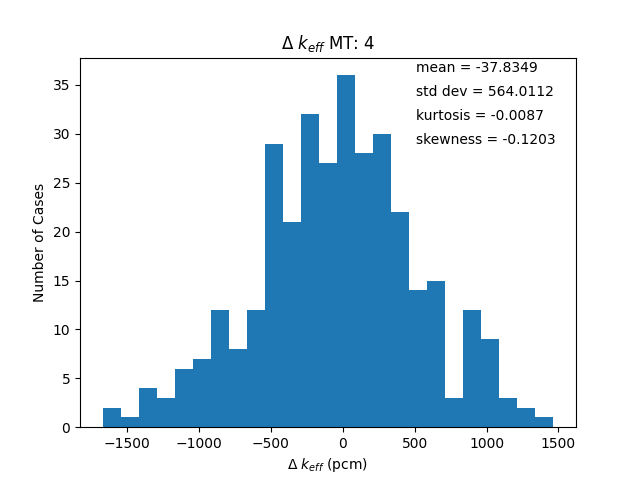
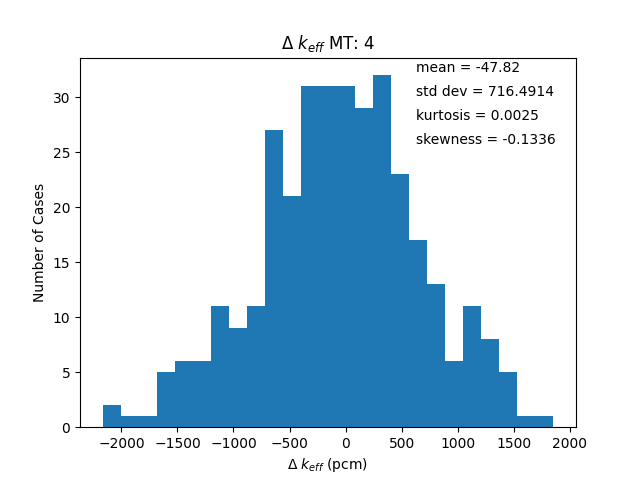
fixat godfiles

diff --git a/main.py b/main.py
@@ -60,11 +60,11 @@ def choose_csv(reaction_ind, directory):
         sens_vector_energy = data[:, 0]
         sens_vector_values = data[:, 1]
     elif int(choice) == 2:
-        reaction_dict = total_reactions_txt(directory)
-        sens_vector_energy, sens_vector_values = reaction_dict[str(reaction_ind)]
+        reaction_dict = total_reactions_txt(directory, reaction_ind)
+        sens_vector_energy, sens_vector_values = reaction_dict[reaction_ind]
     return sens_vector_energy, sens_vector_values
 
-def total_reactions_txt(directory):
+def total_reactions_txt(directory, reaction_ind):
     """
     Creates a dictionary of sensitivity vectors by fetching data from a Dice texftile. The textfile is read with the help
     of a list of reactions.
@@ -73,7 +73,6 @@ def total_reactions_txt(directory):
     Returns:
         sensitivity_dict: A dictionary containing sensitivity vectors with a corresponding energy vectors for each reaction.
     """
-    name_dict = {'2':'elastic', '4':'inelastic', '16':'n,2n', '18':'fission','452':'chi','456':'prompt,chi', '102':'n,gamma'}
     energy_vector = []
     print("\nPlease choose a suitable Dice text file of sensitivity vectors:")
     root = Tk()
@@ -104,26 +103,34 @@ def total_reactions_txt(directory):
         first_word = first_line.split('.')[0]
 
     sensitivity_dict = {}
-    for reaction_ind, reaction_name  in name_dict.items():
-        sens_vec = []
-        with open(text_file_path) as f:
-            header_found = False
-            for line in f:
-                if first_word in line and reaction_name in line:
-                    next_line = next(f, None)
-                    if next_line.split()[0]=='0':
-                        header_found = True
-                        for i in range(2):
-                            f.readline()
-                    continue
-                else:
-                    if header_found == True and line.startswith(' '):
-                        data = [sens_vec.append(float(x)) for x in line.split()]
-                    else:   
-                        header_found = False
-        sens_vec = np.array(sens_vec)
-        sens_vec = sens_vec[:len(energy_vector)]
-        sensitivity_dict[reaction_ind] =( [energy_vector[::-1],sens_vec[::-1]] )
+
+    sens_vec = []
+    with open(text_file_path) as f:
+        header_found = False
+        correct_header = False
+        skip = True
+        for line in f:
+            if first_word in line and str(reaction_ind) in line.split():
+                header_found = True
+                correct_header = False
+                continue
+            elif header_found == True:
+                if line.split()[0] == '0':
+                    correct_header = True
+                header_found = False
+            elif correct_header == True and line.startswith(' '):
+                if skip==True:
+                    f.readline()
+                    skip=False
+                    continue 
+                data = [sens_vec.append(float(x)) for x in line.split()]
+            else:   
+                header_found = False
+    sens_vec = np.array(sens_vec)
+    sens_vec = sens_vec[:len(energy_vector)-1]
+    sens_vec = np.append(sens_vec, 0.0)
+    print(sens_vec)
+    sensitivity_dict[reaction_ind] =( [energy_vector[::-1],sens_vec[::-1]] )
     return sensitivity_dict
 
 def total_reactions_csv(directory):
@@ -227,7 +234,7 @@ def add_reactions(directory):
                 total_dictionary = total_reactions_csv(directory)
                 reaction_dict[reaction_ind] = total_dictionary 
             elif total_meth == "2":
-                total_dictionary = total_reactions_txt(directory) 
+                total_dictionary = total_reactions_txt(directory, reaction_ind) 
                 reaction_dict[reaction_ind] = total_dictionary
         else:
             sens_vector_energy, sens_vector_values = choose_csv(reaction_ind, directory)

diff --git a/miscellaneous/plot_xs_acefiles.py b/miscellaneous/plot_xs_acefiles.py
@@ -16,7 +16,7 @@ from scipy.stats import norm, kurtosis
 
 
 
-directory = '/home/axelwohlin/Desktop/kand/ACE_files/Pu239.nuss.05.10.2016'
+directory = 'ACE_files/Pu239.nuss.05.10.2016'
 
 def cross_section(reaction_ind, ace_file, directory):
     """Picks out the cross sections from the ACE-files. 
@@ -85,7 +85,7 @@ def ace_reader(ace_file, directory):
 #name_dict = {"fission":(18), "elastic":(2),"inelastic":(4), "n,gamma":(102)}
 #name_dict = {"total":(1), "promt,nubar":(456), "nubar":(452)}
 #name_dict = {"fission":(18), "elastic":(2) ,"inelastic":(4)}
-name_dict= {"n,3n":(17),"nubar":(456),"n,gamma":(102)}
+name_dict= {"nubar":(456)}
 name_list = []
 for i in name_dict.keys():
     name_list.append(i)
@@ -123,7 +123,7 @@ for dict_key in plot_dict.keys():
     axs.set_title(f'Cross section of {name_list[dict_key]}')
     axs.set_xlabel("Energy(MeV)")
     axs.set_ylabel("Cross section(Barn)")
-    plt.savefig(f"/home/axelwohlin/Desktop/kand/results/plutonium_xs_plots/figure_{name_list[dict_key]}.png")
+    plt.savefig(f"results/plutonium_xs_plots/figure_{name_list[dict_key]}.png")
     plt.clf
 
 if os.path.exists('new_file.ace'):  

diff --git a/miscellaneous/ace_file_reaction.py b/miscellaneous/ace_file_reaction.py
@@ -16,13 +16,8 @@ from scipy.stats import norm, kurtosis
 
 
 
-<<<<<<< HEAD
-ace_file = '/home/axelwohlin/Desktop/kand/ACE_files/Pu239.nuss.05.10.2016/Pu239-n.ace_0000'#'U235.nuss.10.10.2016/U235-n.ace_0000'
-directory = '/home/axelwohlin/Desktop/kand/ACE_files/Pu239.nuss.05.10.2016'#'U235.nuss.10.10.2016'
-=======
 ace_file = 'ACE_files/Pu239.nuss.05.10.2016/Pu239-n.ace_0000'
 directory = 'ACE_files/Pu239.nuss.05.10.2016'
->>>>>>> f66184d (nya plots)
 
 with open(ace_file, 'rb') as infile:
     ace_file_contents = infile.read()
@@ -40,11 +35,12 @@ with open(dir_file) as f:
     first_word = first_line.split()[0]
 lib.read(first_word)
 lib.tables
+
 file_contents = lib.tables[first_word]
 
 
+
 reaction = file_contents.reactions
-print(reaction)
 for key, value in reaction.items():
     mt_number = key
     print(rx.label(int(mt_number)))
